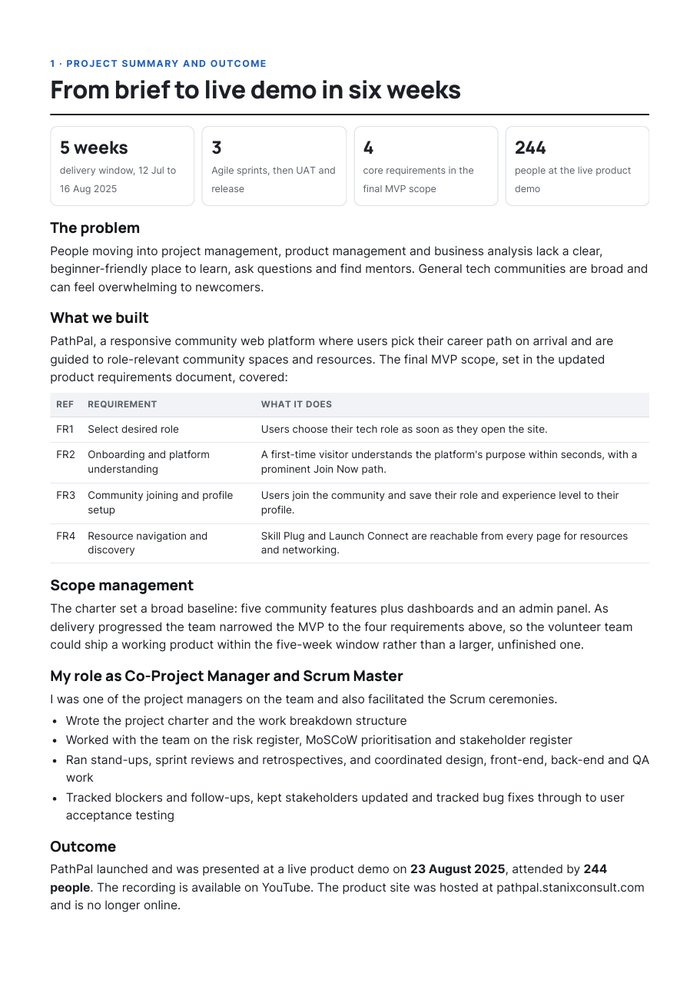
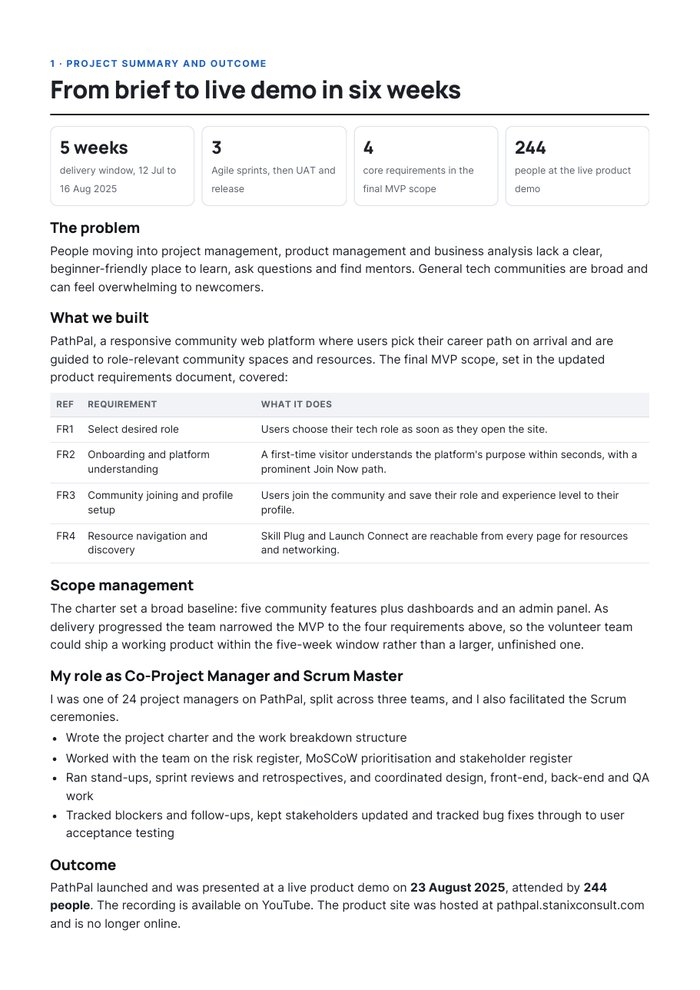
Add PathPal team scale
Claude-Session: https://claude.ai/code/session_01PFegjPD7MABe1F27W3Kx69

Changed region(s): [[0.06, 0.697, 0.93, 0.9394]]

diff --git a/index.html b/index.html
@@ -133,7 +133,7 @@ a{color:#1f5fbf}a:hover{color:#174a96}
 <p style="margin: 0 0 14px; font-size: 15px; font-weight: 600; letter-spacing: 1.2px; text-transform: uppercase; color: #1f5fbf">Operations &amp; projects</p>
 <h2 style="margin: 0; max-width: 860px; font-family: Manrope, Inter, sans-serif; font-weight: 800; font-size: 44px; line-height: 1.12; letter-spacing: -1px">Projects delivered, money protected, operations kept moving</h2>
 <p style="margin: 14px 0 0; max-width: 760px; font-size: 18px; color: #4b5058">Four years of work where accuracy, deadlines and follow-through mattered: Agile project delivery, fraud and payment operations, and the day-to-day running of a founder&rsquo;s affairs.</p>
-<article style="margin-top: 28px; background: #ffffff; border: 1px solid #e1e4e9; border-radius: 20px; padding: 36px"><div style="display: flex; flex-wrap: wrap; gap: 36px 48px"><div style="flex: 1 1 420px; min-width: 0"><p style="margin: 0; font-size: 14px; font-weight: 600; color: #6a6f78; text-transform: uppercase; letter-spacing: 1px">Project delivery · Agile</p><h3 style="margin: 8px 0 6px; font-family: Manrope, Inter, sans-serif; font-weight: 800; font-size: 28px; letter-spacing: -0.4px">PathPal Hub: MVP launch</h3><p style="margin: 0; font-size: 15px; color: #6a6f78">Co-Project Manager and Scrum Master · Stanix Consult · Volunteer team · July to August 2025</p><div style="display: flex; flex-wrap: wrap; gap: 12px; margin-top: 24px"><div style="flex: 1 1 140px; min-width: 0; box-sizing: border-box; background: #f4f6f9; border-radius: 12px; padding: 16px 18px"><p style="margin: 0; font-family: Manrope, Inter, sans-serif; font-weight: 800; font-size: 28px; letter-spacing: -0.5px; color: #121417">5 weeks</p><p style="margin: 4px 0 0; font-size: 14px; line-height: 1.45; color: #4b5058">from kick-off to internal release</p></div><div style="flex: 1 1 140px; min-width: 0; box-sizing: border-box; background: #f4f6f9; border-radius: 12px; padding: 16px 18px"><p style="margin: 0; font-family: Manrope, Inter, sans-serif; font-weight: 800; font-size: 28px; letter-spacing: -0.5px; color: #121417">244</p><p style="margin: 4px 0 0; font-size: 14px; line-height: 1.45; color: #4b5058">people at the live product demo</p></div><div style="flex: 1 1 140px; min-width: 0; box-sizing: border-box; background: #f4f6f9; border-radius: 12px; padding: 16px 18px"><p style="margin: 0; font-family: Manrope, Inter, sans-serif; font-weight: 800; font-size: 28px; letter-spacing: -0.5px; color: #121417">4</p><p style="margin: 4px 0 0; font-size: 14px; line-height: 1.45; color: #4b5058">core requirements in the final MVP</p></div></div></div><ul style="flex: 1 1 360px; min-width: 0; margin: 0; padding-left: 20px; font-size: 16px; color: #3d424a; line-height: 1.6"><li style="margin-bottom: 8px">Co-led Agile delivery of PathPal, a community platform for people moving into project management, product and business analysis careers</li><li style="margin-bottom: 8px">Wrote the project charter and work breakdown structure, and worked with the team on the risk register, MoSCoW prioritisation and stakeholder register</li><li style="margin-bottom: 8px">As Scrum Master, facilitated stand-ups, sprint reviews and retrospectives, and coordinated design, front-end, back-end and QA work</li><li style="margin-bottom: 8px">Helped narrow the MVP to four core requirements so a volunteer team could ship on time, then launched it at a live product demo on 23 August 2025</li></ul></div><div style="margin-top: 32px; padding-top: 28px; border-top: 1px solid #e6e8ec; display: flex; flex-wrap: wrap; gap: 24px 32px; align-items: center"><div style="flex: 1 1 260px; min-width: 0"><p style="margin: 0; font-family: Manrope, Inter, sans-serif; font-weight: 700; font-size: 19px">Project documentation pack</p><p style="margin: 6px 0 16px; font-size: 15px; color: #4b5058; line-height: 1.55">Charter, work breakdown structure, RACI, MoSCoW, risk and stakeholder registers, and a real stand-up report. 11 pages.</p><a href="assets/pathpal-project-pack.pdf?v=2" target="_blank" rel="noopener" style="display: inline-flex; align-items: center; min-height: 46px; padding: 0 22px; border-radius: 10px; background: #1f5fbf; color: #ffffff; font-weight: 600; font-size: 15px; text-decoration: none">View the project pack (PDF)</a></div><div class="pp-thumbs" style="flex: 2 1 420px; min-width: 0; display: grid; grid-template-columns: repeat(4, minmax(0, 1fr)); gap: 14px"><a href="assets/pathpal-project-pack.pdf?v=2" target="_blank" rel="noopener" style="display: block; text-decoration: none; color: #4b5058; font-size: 13px; text-align: center"><img src="assets/pathpal-summary.jpg?v=2" alt="PathPal Project summary page" loading="lazy" style="display: block; width: 100%; height: auto; border-radius: 6px; border: 1px solid #e1e4e9; box-shadow: 0 4px 12px rgba(18,20,23,0.06)"><span style="display: block; margin-top: 6px">Project summary</span></a><a href="assets/pathpal-project-pack.pdf?v=2" target="_blank" rel="noopener" style="display: block; text-decoration: none; color: #4b5058; font-size: 13px; text-align: center"><img src="assets/pathpal-charter.jpg?v=2" alt="PathPal Project charter page" loading="lazy" style="display: block; width: 100%; height: auto; border-radius: 6px; border: 1px solid #e1e4e9; box-shadow: 0 4px 12px rgba(18,20,23,0.06)"><span style="display: block; margin-top: 6px">Project charter</span></a><a href="assets/pathpal-project-pack.pdf?v=2" target="_blank" rel="noopener" style="display: block; text-decoration: none; color: #4b5058; font-size: 13px; text-align: center"><img src="assets/pathpal-risks.jpg" alt="PathPal Risk register page" loading="lazy" style="display: block; width: 100%; height: auto; border-radius: 6px; border: 1px solid #e1e4e9; box-shadow: 0 4px 12px rgba(18,20,23,0.06)"><span style="display: block; margin-top: 6px">Risk register</span></a><a href="assets/pathpal-project-pack.pdf?v=2" target="_blank" rel="noopener" style="display: block; text-decoration: none; color: #4b5058; font-size: 13px; text-align: center"><img src="assets/pathpal-standup.jpg" alt="PathPal Stand-up report page" loading="lazy" style="display: block; width: 100%; height: auto; border-radius: 6px; border: 1px solid #e1e4e9; box-shadow: 0 4px 12px rgba(18,20,23,0.06)"><span style="display: block; margin-top: 6px">Stand-up report</span></a></div></div></article>
+<article style="margin-top: 28px; background: #ffffff; border: 1px solid #e1e4e9; border-radius: 20px; padding: 36px"><div style="display: flex; flex-wrap: wrap; gap: 36px 48px"><div style="flex: 1 1 420px; min-width: 0"><p style="margin: 0; font-size: 14px; font-weight: 600; color: #6a6f78; text-transform: uppercase; letter-spacing: 1px">Project delivery · Agile</p><h3 style="margin: 8px 0 6px; font-family: Manrope, Inter, sans-serif; font-weight: 800; font-size: 28px; letter-spacing: -0.4px">PathPal Hub: MVP launch</h3><p style="margin: 0; font-size: 15px; color: #6a6f78">Co-Project Manager and Scrum Master · Stanix Consult · One of 24 project managers across three teams · July to August 2025</p><div style="display: flex; flex-wrap: wrap; gap: 12px; margin-top: 24px"><div style="flex: 1 1 140px; min-width: 0; box-sizing: border-box; background: #f4f6f9; border-radius: 12px; padding: 16px 18px"><p style="margin: 0; font-family: Manrope, Inter, sans-serif; font-weight: 800; font-size: 28px; letter-spacing: -0.5px; color: #121417">5 weeks</p><p style="margin: 4px 0 0; font-size: 14px; line-height: 1.45; color: #4b5058">from kick-off to internal release</p></div><div style="flex: 1 1 140px; min-width: 0; box-sizing: border-box; background: #f4f6f9; border-radius: 12px; padding: 16px 18px"><p style="margin: 0; font-family: Manrope, Inter, sans-serif; font-weight: 800; font-size: 28px; letter-spacing: -0.5px; color: #121417">244</p><p style="margin: 4px 0 0; font-size: 14px; line-height: 1.45; color: #4b5058">people at the live product demo</p></div><div style="flex: 1 1 140px; min-width: 0; box-sizing: border-box; background: #f4f6f9; border-radius: 12px; padding: 16px 18px"><p style="margin: 0; font-family: Manrope, Inter, sans-serif; font-weight: 800; font-size: 28px; letter-spacing: -0.5px; color: #121417">4</p><p style="margin: 4px 0 0; font-size: 14px; line-height: 1.45; color: #4b5058">core requirements in the final MVP</p></div></div></div><ul style="flex: 1 1 360px; min-width: 0; margin: 0; padding-left: 20px; font-size: 16px; color: #3d424a; line-height: 1.6"><li style="margin-bottom: 8px">Co-led Agile delivery of PathPal, a community platform for people moving into project management, product and business analysis careers</li><li style="margin-bottom: 8px">Wrote the project charter and work breakdown structure, and worked with the team on the risk register, MoSCoW prioritisation and stakeholder register</li><li style="margin-bottom: 8px">As Scrum Master, facilitated stand-ups, sprint reviews and retrospectives, and coordinated design, front-end, back-end and QA work</li><li style="margin-bottom: 8px">Helped narrow the MVP to four core requirements so a volunteer team could ship on time, then launched it at a live product demo on 23 August 2025</li></ul></div><div style="margin-top: 32px; padding-top: 28px; border-top: 1px solid #e6e8ec; display: flex; flex-wrap: wrap; gap: 24px 32px; align-items: center"><div style="flex: 1 1 260px; min-width: 0"><p style="margin: 0; font-family: Manrope, Inter, sans-serif; font-weight: 700; font-size: 19px">Project documentation pack</p><p style="margin: 6px 0 16px; font-size: 15px; color: #4b5058; line-height: 1.55">Charter, work breakdown structure, RACI, MoSCoW, risk and stakeholder registers, and a real stand-up report. 11 pages.</p><a href="assets/pathpal-project-pack.pdf?v=3" target="_blank" rel="noopener" style="display: inline-flex; align-items: center; min-height: 46px; padding: 0 22px; border-radius: 10px; background: #1f5fbf; color: #ffffff; font-weight: 600; font-size: 15px; text-decoration: none">View the project pack (PDF)</a></div><div class="pp-thumbs" style="flex: 2 1 420px; min-width: 0; display: grid; grid-template-columns: repeat(4, minmax(0, 1fr)); gap: 14px"><a href="assets/pathpal-project-pack.pdf?v=3" target="_blank" rel="noopener" style="display: block; text-decoration: none; color: #4b5058; font-size: 13px; text-align: center"><img src="assets/pathpal-summary.jpg?v=3" alt="PathPal Project summary page" loading="lazy" style="display: block; width: 100%; height: auto; border-radius: 6px; border: 1px solid #e1e4e9; box-shadow: 0 4px 12px rgba(18,20,23,0.06)"><span style="display: block; margin-top: 6px">Project summary</span></a><a href="assets/pathpal-project-pack.pdf?v=3" target="_blank" rel="noopener" style="display: block; text-decoration: none; color: #4b5058; font-size: 13px; text-align: center"><img src="assets/pathpal-charter.jpg?v=3" alt="PathPal Project charter page" loading="lazy" style="display: block; width: 100%; height: auto; border-radius: 6px; border: 1px solid #e1e4e9; box-shadow: 0 4px 12px rgba(18,20,23,0.06)"><span style="display: block; margin-top: 6px">Project charter</span></a><a href="assets/pathpal-project-pack.pdf?v=3" target="_blank" rel="noopener" style="display: block; text-decoration: none; color: #4b5058; font-size: 13px; text-align: center"><img src="assets/pathpal-risks.jpg" alt="PathPal Risk register page" loading="lazy" style="display: block; width: 100%; height: auto; border-radius: 6px; border: 1px solid #e1e4e9; box-shadow: 0 4px 12px rgba(18,20,23,0.06)"><span style="display: block; margin-top: 6px">Risk register</span></a><a href="assets/pathpal-project-pack.pdf?v=3" target="_blank" rel="noopener" style="display: block; text-decoration: none; color: #4b5058; font-size: 13px; text-align: center"><img src="assets/pathpal-standup.jpg" alt="PathPal Stand-up report page" loading="lazy" style="display: block; width: 100%; height: auto; border-radius: 6px; border: 1px solid #e1e4e9; box-shadow: 0 4px 12px rgba(18,20,23,0.06)"><span style="display: block; margin-top: 6px">Stand-up report</span></a></div></div></article>
 <article style="margin-top: 28px; background: #ffffff; border: 1px solid #e1e4e9; border-radius: 20px; padding: 36px; display: flex; flex-wrap: wrap; gap: 36px 48px"><div style="flex: 1 1 420px; min-width: 0"><p style="margin: 0; font-size: 14px; font-weight: 600; color: #6a6f78; text-transform: uppercase; letter-spacing: 1px">Risk &amp; payment operations</p><h3 style="margin: 8px 0 6px; font-family: Manrope, Inter, sans-serif; font-weight: 800; font-size: 28px; letter-spacing: -0.4px">Fraud and payments, end to end</h3><p style="margin: 0; font-size: 15px; color: #6a6f78">Fraud and Payment Officer · ZEbet Nigeria and Cube Gaming (CubeBet) · 2023 to 2026</p><div style="display: flex; flex-wrap: wrap; gap: 12px; margin-top: 24px"><div style="flex: 1 1 140px; min-width: 0; box-sizing: border-box; background: #f4f6f9; border-radius: 12px; padding: 16px 18px"><p style="margin: 0; font-family: Manrope, Inter, sans-serif; font-weight: 800; font-size: 28px; letter-spacing: -0.5px; color: #121417">100%</p><p style="margin: 4px 0 0; font-size: 14px; line-height: 1.45; color: #4b5058">of reported fraud cases and disputes resolved within 72 hours</p></div><div style="flex: 1 1 140px; min-width: 0; box-sizing: border-box; background: #f4f6f9; border-radius: 12px; padding: 16px 18px"><p style="margin: 0; font-family: Manrope, Inter, sans-serif; font-weight: 800; font-size: 28px; letter-spacing: -0.5px; color: #121417">95%</p><p style="margin: 4px 0 0; font-size: 14px; line-height: 1.45; color: #4b5058">of withdrawals completed within 24 hours, with 100% accuracy</p></div><div style="flex: 1 1 140px; min-width: 0; box-sizing: border-box; background: #f4f6f9; border-radius: 12px; padding: 16px 18px"><p style="margin: 0; font-family: Manrope, Inter, sans-serif; font-weight: 800; font-size: 28px; letter-spacing: -0.5px; color: #121417">2×</p><p style="margin: 4px 0 0; font-size: 14px; line-height: 1.45; color: #4b5058">Fraud and Payment Champion of the Month</p></div></div></div><ul style="flex: 1 1 360px; min-width: 0; margin: 0; padding-left: 20px; font-size: 16px; color: #3d424a; line-height: 1.6"><li style="margin-bottom: 8px">Monitored daily transactions, flagged suspicious activity and ran KYC and AML checks on new and existing accounts</li><li style="margin-bottom: 8px">Coordinated case tracking and escalations between the fraud, payments and compliance teams</li><li style="margin-bottom: 8px">Resolved customer experience escalations within SLA in Freshdesk, and helped reduce the chargeback rate</li><li style="margin-bottom: 8px">Kept audit-ready records and gave management clear, regular reports</li></ul></article>
 <article style="margin-top: 28px; background: #ffffff; border: 1px solid #e1e4e9; border-radius: 20px; padding: 36px; display: flex; flex-wrap: wrap; gap: 36px 48px"><div style="flex: 1 1 420px; min-width: 0"><p style="margin: 0; font-size: 14px; font-weight: 600; color: #6a6f78; text-transform: uppercase; letter-spacing: 1px">Founder operations</p><h3 style="margin: 8px 0 6px; font-family: Manrope, Inter, sans-serif; font-weight: 800; font-size: 28px; letter-spacing: -0.4px">Running a founder&rsquo;s money and household</h3><p style="margin: 0; font-size: 15px; color: #6a6f78">Executive Assistant (Financial Administration) · Tech founder · 2025 to present</p><div style="display: flex; flex-wrap: wrap; gap: 12px; margin-top: 24px"><div style="flex: 1 1 140px; min-width: 0; box-sizing: border-box; background: #f4f6f9; border-radius: 12px; padding: 16px 18px"><p style="margin: 0; font-family: Manrope, Inter, sans-serif; font-weight: 800; font-size: 28px; letter-spacing: -0.5px; color: #121417">2 weeks</p><p style="margin: 4px 0 0; font-size: 14px; line-height: 1.45; color: #4b5058">to map every bill, vendor, pay date and renewal</p></div><div style="flex: 1 1 140px; min-width: 0; box-sizing: border-box; background: #f4f6f9; border-radius: 12px; padding: 16px 18px"><p style="margin: 0; font-family: Manrope, Inter, sans-serif; font-weight: 800; font-size: 28px; letter-spacing: -0.5px; color: #121417">Weekly</p><p style="margin: 4px 0 0; font-size: 14px; line-height: 1.45; color: #4b5058">reconciliations with receipts, matched to the naira</p></div></div></div><ul style="flex: 1 1 360px; min-width: 0; margin: 0; padding-left: 20px; font-size: 16px; color: #3d424a; line-height: 1.6"><li style="margin-bottom: 8px">Prepare payment schedules and make approved payments within a written financial mandate and approval limits</li><li style="margin-bottom: 8px">Produce monthly reports and flag exceptions, such as new payees or payments above limits, before they happen</li><li style="margin-bottom: 8px">Coordinate vendors, maintenance, procurement, insurance renewals and staff logistics</li><li style="margin-bottom: 8px">Manage calendar, travel, inbox and meeting preparation with strict confidentiality</li></ul></article>
 <h3 style="margin: 64px 0 0; font-family: Manrope, Inter, sans-serif; font-weight: 800; font-size: 26px; letter-spacing: -0.3px">Sample documents</h3>
@@ -155,7 +155,7 @@ a{color:#1f5fbf}a:hover{color:#174a96}
 <p style="margin: 14px 0 0; max-width: 720px; font-size: 18px; color: #4b5058">Filmed and edited video, AI video and imagery, and hands-on design for real clients and concept briefs.</p>
 
 <div style="display: flex; flex-wrap: wrap; gap: 48px; align-items: center; margin-top: 56px; background: #ffffff; border: 1px solid #e1e4e9; border-radius: 20px; padding: 40px">
-<video src="assets/kmf.mp4?v=2" poster="assets/kmf-poster.jpg?v=2" controls playsinline preload="metadata" aria-label="KMF Boutique AI brand ad, 40 seconds" style="flex: 0 0 320px; width: 320px; max-width: 100%; aspect-ratio: 9 / 16; border-radius: 14px; background: #121417; object-fit: cover"></video>
+<video src="assets/kmf.mp4?v=3" poster="assets/kmf-poster.jpg?v=3" controls playsinline preload="metadata" aria-label="KMF Boutique AI brand ad, 40 seconds" style="flex: 0 0 320px; width: 320px; max-width: 100%; aspect-ratio: 9 / 16; border-radius: 14px; background: #121417; object-fit: cover"></video>
 <div style="flex: 1 1 360px; min-width: 0">
 <p style="margin: 0; font-size: 14px; font-weight: 600; color: #6a6f78; text-transform: uppercase; letter-spacing: 1px">AI video · Concept</p>
 <h3 style="margin: 8px 0 14px; font-family: Manrope, Inter, sans-serif; font-weight: 800; font-size: 32px; letter-spacing: -0.5px">KMF Boutique: AI brand ad</h3>
@@ -229,8 +229,8 @@ a{color:#1f5fbf}a:hover{color:#174a96}
 <div style="flex: 1 1 200px; background: #f4f6f9; border-radius: 14px; padding: 18px 20px"><p style="margin: 0; font-family: Manrope, Inter, sans-serif; font-weight: 800; font-size: 28px; letter-spacing: -0.5px">200 → 1,800</p><p style="margin: 4px 0 0; font-size: 15px; color: #4b5058">followers on the brand's page overnight</p></div>
 </div>
 <div style="display: grid; grid-template-columns: repeat(auto-fit, minmax(200px, 1fr)); gap: 16px; margin-top: 26px; align-items: center">
-<img src="assets/ebook-gain.jpg?v=2" alt="Cover of The Sweet Gain Nutrition Guide ebook" loading="lazy" style="display: block; width: 100%; height: auto; border-radius: 12px; border: 1px solid #e1e4e9; background: #ffffff">
-<img src="assets/ebook-hiit.jpg?v=2" alt="Cover of the HIIT It To Lose It Challenge ebook" loading="lazy" style="display: block; width: 100%; height: auto; border-radius: 12px; border: 1px solid #e1e4e9; background: #ffffff">
+<img src="assets/ebook-gain.jpg?v=3" alt="Cover of The Sweet Gain Nutrition Guide ebook" loading="lazy" style="display: block; width: 100%; height: auto; border-radius: 12px; border: 1px solid #e1e4e9; background: #ffffff">
+<img src="assets/ebook-hiit.jpg?v=3" alt="Cover of the HIIT It To Lose It Challenge ebook" loading="lazy" style="display: block; width: 100%; height: auto; border-radius: 12px; border: 1px solid #e1e4e9; background: #ffffff">
 <img src="assets/ebook-contents.jpg" alt="Table of contents page from the nutrition guide" loading="lazy" style="display: block; width: 100%; height: auto; border-radius: 12px; border: 1px solid #e1e4e9; background: #ffffff">
 </div>
 <p style="margin: 14px 0 0; font-size: 15px; color: #6a6f78">Role: research, content, cover and layout design, launch marketing strategy · Tool: Canva</p>
